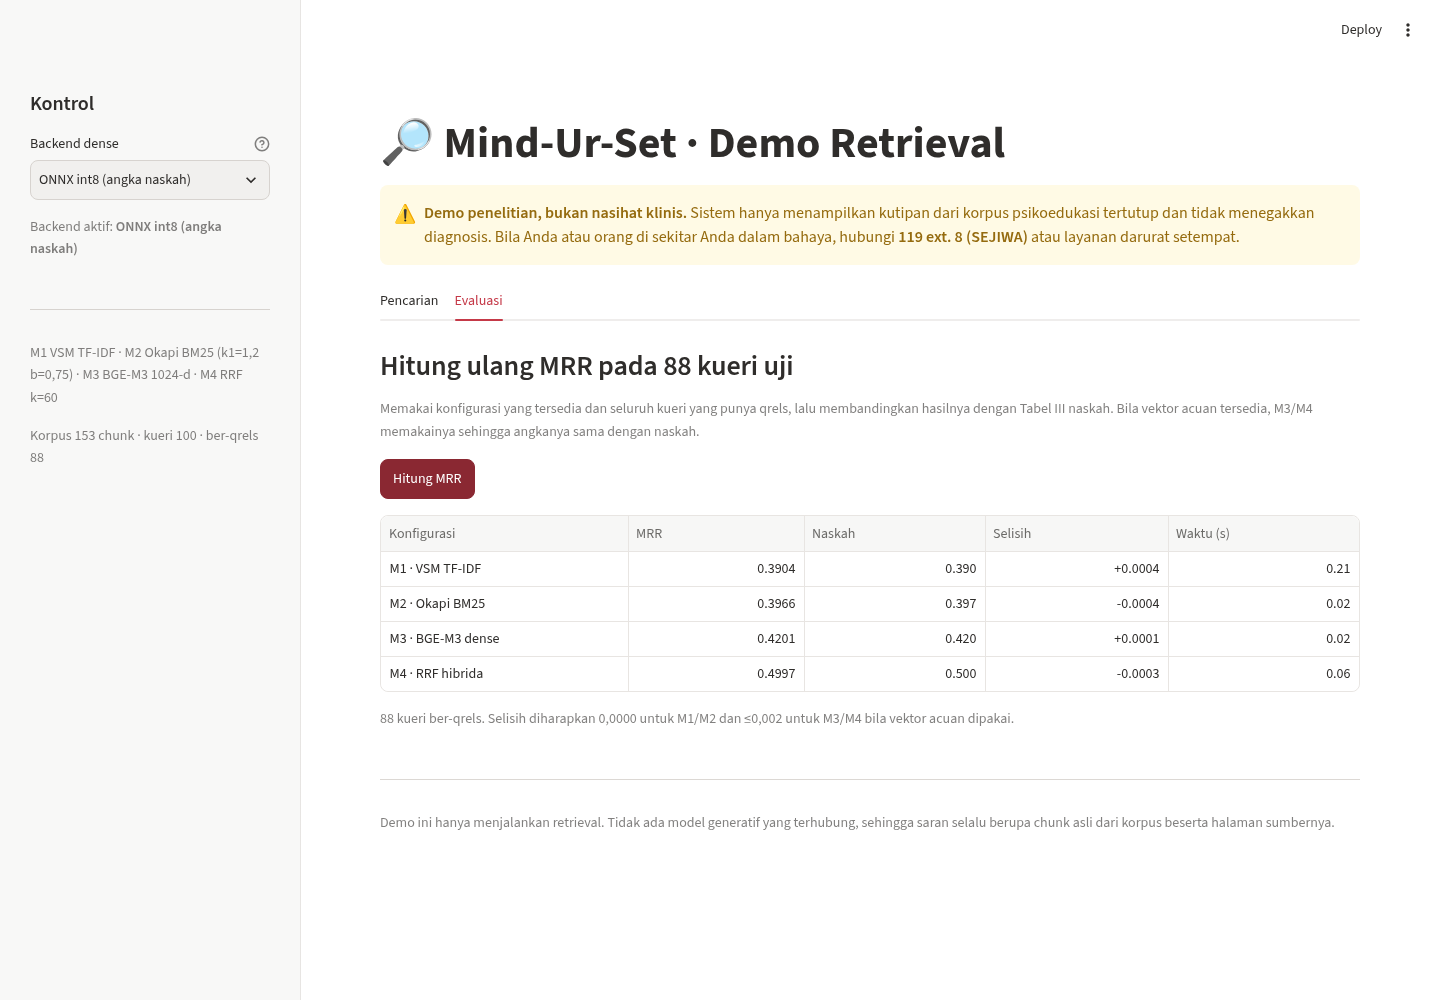
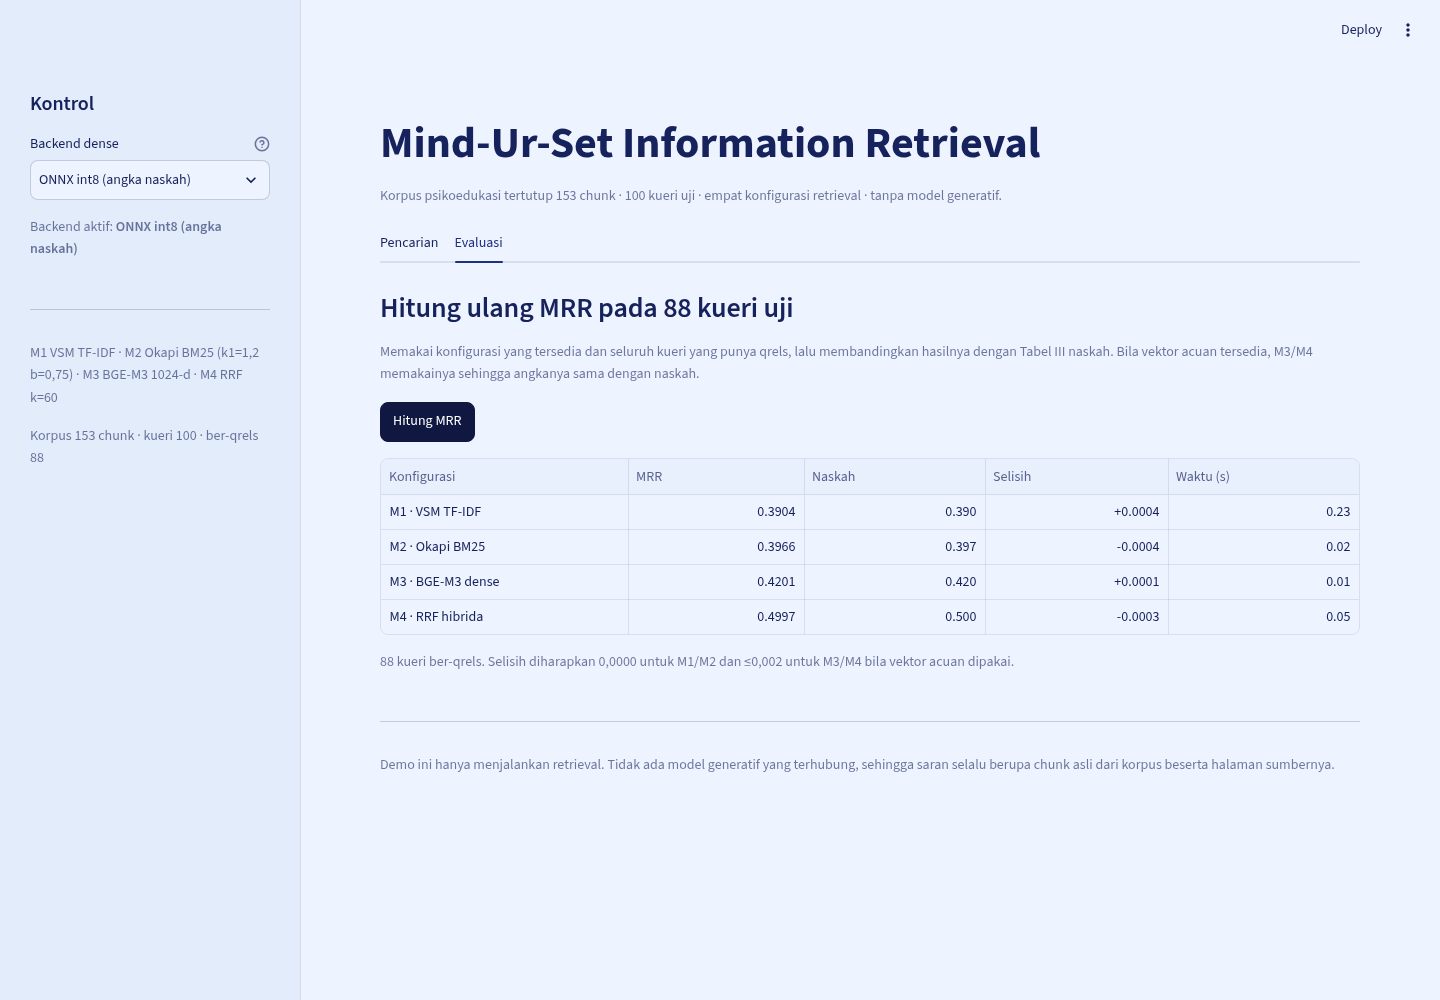
feat: apply mindurset theme and redesign comparison table

diff --git a/app.py b/app.py
@@ -53,7 +53,7 @@ POLA_RISIKO = (
 )
 _RE_RISIKO = re.compile("|".join(POLA_RISIKO), re.IGNORECASE)
 
-st.set_page_config(page_title="Mind-Ur-Set · IR Demo", page_icon="🔎", layout="wide")
+st.set_page_config(page_title="Mind-Ur-Set Information Retrieval", page_icon="🔎", layout="wide")
 
 
 # --------------------------------------------------------------------------
@@ -96,7 +96,7 @@ def deteksi_risiko(teks: str) -> list[str]:
 def rentang_halaman(halaman) -> str:
     """[77, 78, 79, 82] -> '77–79, 82'."""
     if not halaman:
-        return "—"
+        return "tanpa halaman"
     if isinstance(halaman, int):
         return str(halaman)
     angka = sorted({int(h) for h in halaman})
@@ -138,6 +138,57 @@ def pencari(backend: str | None):
     return fungsi
 
 
+def tabel_perbandingan(hasil: dict[str, list[str]], relevan: set[str], topk: int) -> str:
+    """Tabel HTML: satu baris per peringkat, satu kolom per konfigurasi."""
+    kode = [n.split(" · ")[0] for n in hasil]
+    kepala = "".join(
+        f'<th><span class="kode">{k}</span><span class="metode">{n.split(" · ")[1]}</span></th>'
+        for k, n in zip(kode, hasil)
+    )
+    baris = []
+    for pos in range(topk):
+        sel = [f'<td class="peringkat">{pos + 1}</td>']
+        for nama in hasil:
+            urut = hasil[nama]
+            if pos >= len(urut):
+                sel.append('<td class="kosong">—</td>')
+                continue
+            doc_id = urut[pos]
+            d = KOR[doc_id]
+            sumber = NAMA_SUMBER.get(d.get("sumber", ""), d.get("sumber", "?"))
+            kelas = "sel relevan" if doc_id in relevan else "sel"
+            tanda = '<span class="tanda">✓</span>' if doc_id in relevan else ""
+            sel.append(
+                f'<td class="{kelas}"><span class="id">{doc_id}</span>{tanda}'
+                f'<span class="ket">{sumber} · hal. {rentang_halaman(d.get("halaman"))}</span></td>'
+            )
+        baris.append("<tr>" + "".join(sel) + "</tr>")
+
+    return f"""
+<style>
+.tabel-ir {{ width:100%; border-collapse:separate; border-spacing:0; font-size:0.86rem;
+             border:1px solid #D3DDF0; border-radius:10px; overflow:hidden; background:#fff; }}
+.tabel-ir th {{ background:#203080; color:#fff; text-align:left; padding:8px 10px; font-weight:600;
+                vertical-align:bottom; }}
+.tabel-ir th .kode {{ display:block; font-size:0.95rem; letter-spacing:0.02em; }}
+.tabel-ir th .metode {{ display:block; font-size:0.72rem; font-weight:400; opacity:0.85; }}
+.tabel-ir td {{ padding:7px 10px; border-top:1px solid #D3DDF0; vertical-align:top; color:#16225C; }}
+.tabel-ir tr:nth-child(even) td {{ background:#F7FAFF; }}
+.tabel-ir td.peringkat {{ width:38px; color:#565E70; font-variant-numeric:tabular-nums; }}
+.tabel-ir td.kosong {{ color:#9AA3B2; text-align:center; }}
+.tabel-ir .id {{ font-family:ui-monospace,SFMono-Regular,Menlo,monospace; font-size:0.8rem;
+                 color:#16225C; }}
+.tabel-ir .ket {{ display:block; font-size:0.72rem; color:#565E70; margin-top:2px; }}
+.tabel-ir .tanda {{ color:#2E7D32; font-weight:700; margin-left:6px; }}
+.tabel-ir td.relevan {{ background:#E9F5EC; box-shadow:inset 3px 0 0 #2E7D32; }}
+</style>
+<table class="tabel-ir">
+  <thead><tr><th class="peringkat">#</th>{kepala}</tr></thead>
+  <tbody>{''.join(baris)}</tbody>
+</table>
+"""
+
+
 def kartu_bantuan() -> None:
     st.error(
         "**Kueri ini menyentuh tema risiko tinggi.** Demo ini tidak dapat menilai risiko dan tidak "
@@ -154,12 +205,10 @@ def kartu_bantuan() -> None:
 # --------------------------------------------------------------------------
 # kepala halaman
 # --------------------------------------------------------------------------
-st.title("🔎 Mind-Ur-Set · Demo Retrieval")
-st.warning(
-    "**Demo penelitian, bukan nasihat klinis.** Sistem hanya menampilkan kutipan dari korpus "
-    "psikoedukasi tertutup dan tidak menegakkan diagnosis. Bila Anda atau orang di sekitar Anda "
-    "dalam bahaya, hubungi **119 ext. 8 (SEJIWA)** atau layanan darurat setempat.",
-    icon="⚠",
+st.title("Mind-Ur-Set Information Retrieval")
+st.caption(
+    "Korpus psikoedukasi tertutup 153 chunk · 100 kueri uji · empat konfigurasi retrieval · "
+    "tanpa model generatif."
 )
 
 with st.sidebar:
@@ -287,16 +336,12 @@ with tab_cari:
 
         if len(hasil) > 1:
             st.subheader("Perbandingan peringkat")
-            baris = []
-            for pos in range(simpan["topk"]):
-                isi = {"#": pos + 1}
-                for nama, urut in hasil.items():
-                    d = urut[pos] if pos < len(urut) else "—"
-                    if d != "—" and simpan["qid"] and d in relevan:
-                        d = f"{d} ✅"
-                    isi[nama.split(" · ")[0]] = d
-                baris.append(isi)
-            st.dataframe(baris, width="stretch", hide_index=True)
+            st.markdown(
+                tabel_perbandingan(hasil, relevan if simpan["qid"] else set(), simpan["topk"]),
+                unsafe_allow_html=True,
+            )
+            if simpan["qid"]:
+                st.caption("Sel berlatar hijau menandai chunk yang relevan menurut qrels final.")
 
         for nama, urut in hasil.items():
             st.subheader(nama)

diff --git a/tests/test_app.py b/tests/test_app.py
@@ -14,7 +14,7 @@ APP = str(ROOT / "app.py")
 def test_app_memuat_tanpa_exception():
     at = AppTest.from_file(APP, default_timeout=120).run()
     assert not at.exception
-    assert at.title[0].value.startswith("🔎")
+    assert at.title[0].value == "Mind-Ur-Set Information Retrieval"
 
 
 def test_pencarian_menampilkan_hasil():

diff --git a/README.md b/README.md
@@ -47,7 +47,7 @@ pip install -r requirements-torch.txt
 
 | Bagian | Keterangan |
 |---|---|
-| Peringatan keselamatan | Banner "bukan nasihat klinis" + rujukan 119 ext. 8 (SEJIWA) |
+| Kartu keselamatan | Muncul hanya untuk kueri berfrasa risiko, dengan rujukan 119 ext. 8 (SEJIWA), 112, IGD, dan findahelpline.com |
 | Mode kueri bebas | Tulis keluhan apa pun, lihat peringkat *chunk* |
 | Mode kueri uji | Pilih dari 88 kueri uji yang punya kunci relevansi |
 | Pemilih konfigurasi | Bandingkan M1–M4 berdampingan |
